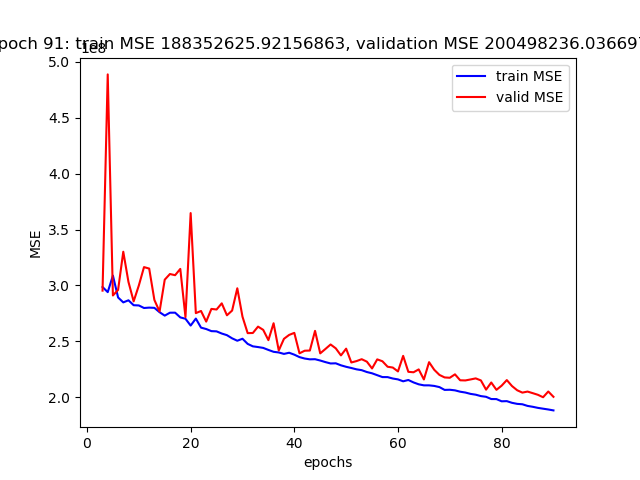
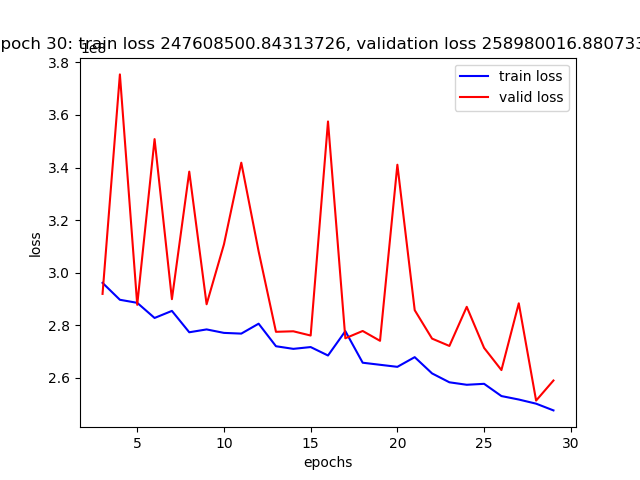
mindor

diff --git a/int_network.py b/int_network.py
@@ -119,7 +119,7 @@ def calculate_total_loss(predicted, target):
 
 all_train_losses = []
 all_valid_losses = []
-best_val = 100000
+best_val = 1000000000
 for epoch in tqdm(range(1,n_epoch+1)):
     losses = []
     running_mae = torch.zeros(data.shape[-1]).to(device)
@@ -140,22 +140,24 @@ for epoch in tqdm(range(1,n_epoch+1)):
     # add_vars(writer, running_mae, epoch)
     train_loss = np.mean(losses)
     valid_loss = validate(validation_dataloader, interaction_network)  
-    writer.add_scalars("Losses", {'train_mse': train_loss, 'valid_mse' : valid_loss}, epoch)
+    print("valid_loss: ", valid_loss)
+    writer.add_scalars("Losses", {'train_loss': train_loss, 'valid_loss' : valid_loss}, epoch)
     
     all_train_losses.append(train_loss)
     all_valid_losses.append(valid_loss) 
 
     if epoch > 3:
-        plt.plot(np.arange(3,epoch), np.array(all_train_losses[3:]), color="b", label="train MSE")
-        plt.plot(np.arange(3,epoch), np.array(all_valid_losses[3:]), color="r", label="valid MSE")
-        plt.title('Epoch %s: train MSE %s, validation MSE %s' % (epoch, train_loss, valid_loss))
+        plt.plot(np.arange(3,epoch), np.array(all_train_losses[3:]), color="b", label="train loss")
+        plt.plot(np.arange(3,epoch), np.array(all_valid_losses[3:]), color="r", label="valid loss")
+        plt.title('Epoch %s: train loss %s, validation loss %s' % (epoch, train_loss, valid_loss))
         plt.xlabel("epochs")
-        plt.ylabel("MSE")
+        plt.ylabel("loss")
         plt.legend()
         #plt.show()
         plt.savefig("plots/plot_24.png")
         plt.close()
     if valid_loss < best_val:
+        print("Saving ckpt epoch ", epoch)
         torch.save({
                         'epoch': epoch,
                         'model_state_dict': interaction_network.state_dict(),

diff --git a/viz.py b/viz.py
@@ -16,7 +16,7 @@ from transformations import rotate_vector
 
 
 
-ckpt_to_use = "ckpts/ckpt_new24_92.p"
+ckpt_to_use = "ckpts/ckpt_new24_91.p"
 
 def plot_object(ax, center_x, center_y, center_z, rot_pitch, rot_yaw, rot_roll, radius, color, title):
 
